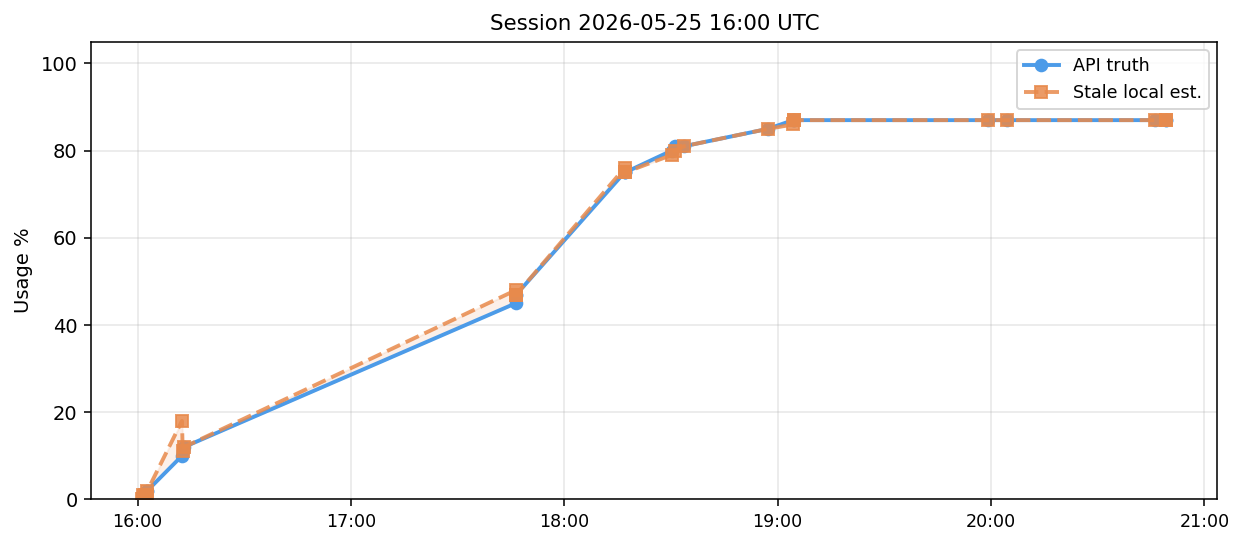
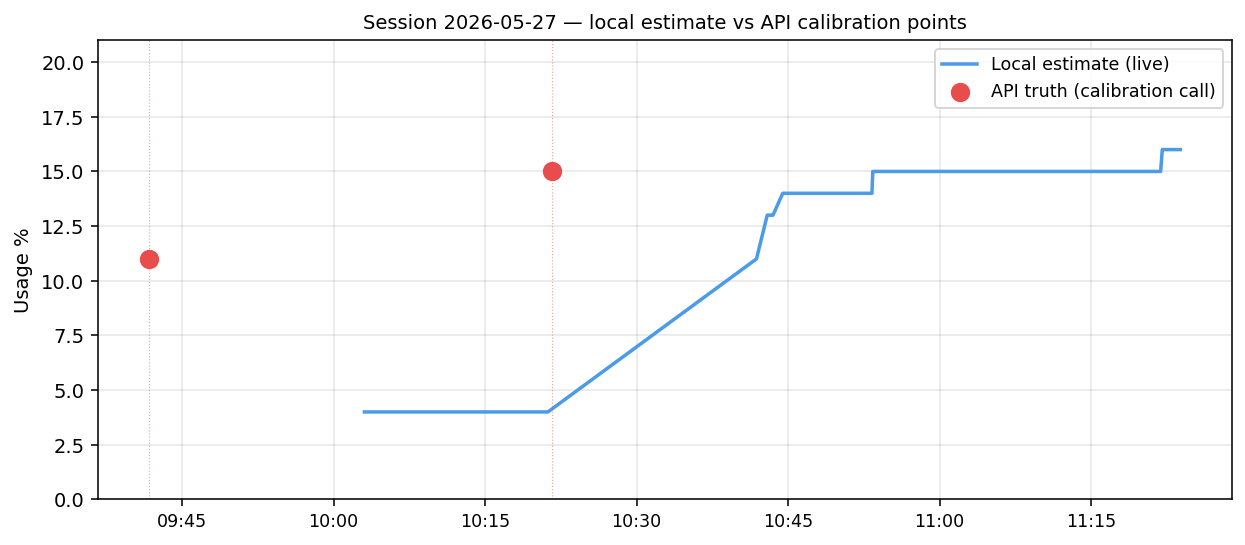
Update accuracy chart + remove CALIBRATION-PLAN.md reference
Chart now shows today's live session: continuous local estimate line
with sparse API-truth dots, clearly illustrating the hybrid approach.
Script fixed to use only the current widget-startup log block.

diff --git a/save_accuracy_chart.py b/save_accuracy_chart.py
@@ -1,67 +1,94 @@
-"""Save a standalone accuracy chart for the README (best single session)."""
-import json, os
-from datetime import datetime
+"""Generate accuracy chart for README: continuous local estimate line + API-truth dots."""
+import json, os, re
+from datetime import datetime, date, timedelta, timezone
 from pathlib import Path
 from collections import defaultdict
 import matplotlib.pyplot as plt
 import matplotlib.dates as mdates
 
-JSONL = Path(os.environ["LOCALAPPDATA"]) / "ClaudeUsage" / "usage_data" / "calibration.jsonl"
+DATA = Path(os.environ["LOCALAPPDATA"]) / "ClaudeUsage" / "usage_data"
+JSONL = DATA / "calibration.jsonl"
+LOG   = DATA / "widget_run.log"
 
-def _session_key(r):
-    dt = datetime.fromisoformat(r["session_start"]).replace(second=0, microsecond=0)
-    return dt.isoformat()
+SESSION_DATE = date(2026, 5, 27)
+SESSION_START_UTC = datetime(2026, 5, 27, 8, 50, tzinfo=timezone.utc)
 
-records = []
-for line in JSONL.read_text(encoding="utf-8").splitlines():
-    line = line.strip()
-    if not line: continue
-    r = json.loads(line)
-    r["_ts"] = datetime.fromisoformat(r["scraped_at"])
-    records.append(r)
-records.sort(key=lambda r: r["_ts"])
 
-sessions = defaultdict(list)
-for r in records:
-    sessions[_session_key(r)].append(r)
+def load_api_points():
+    """Calibration records for today's session that have a resolved budget."""
+    points = []
+    for line in JSONL.read_text(encoding="utf-8").splitlines():
+        line = line.strip()
+        if not line:
+            continue
+        r = json.loads(line)
+        if not r["session_start"].startswith("2026-05-27"):
+            continue
+        if r.get("implied_session_budget") and r.get("session_pct") is not None:
+            points.append({
+                "ts":  datetime.fromisoformat(r["scraped_at"]),
+                "pct": r["session_pct"],
+            })
+    # Deduplicate by minute (multiple rapid calls at same % are noise)
+    seen, deduped = set(), []
+    for p in points:
+        key = p["ts"].strftime("%H:%M")
+        if key not in seen:
+            seen.add(key)
+            deduped.append(p)
+    return deduped
 
-# Pick the May 25 16:00 session (cleanest data); fall back to most data points
-target = "2026-05-25T16:00"
-best_key = next((k for k in sessions if k.startswith(target)), None)
-if best_key is None:
-    best_key, _ = max(
-        ((k, v) for k, v in sessions.items()
-         if len(v) >= 5 and any(r.get("implied_session_budget") for r in v)),
-        key=lambda kv: len(kv[1])
-    )
-best_recs = sessions[best_key]
 
-# Build (timestamp, api_pct, stale_local_pct) triples
-timestamps, api_vals, stale_vals = [], [], []
-prev = None
-for r in best_recs:
-    api_pct = r.get("session_pct")
-    io_total = r.get("transcript_io_total", 0)
-    if api_pct is None:
-        prev = r; continue
-    timestamps.append(r["_ts"])
-    api_vals.append(api_pct)
-    if prev and prev.get("implied_session_budget"):
-        stale_vals.append(min(100, round(100 * io_total / prev["implied_session_budget"])))
-    else:
-        stale_vals.append(api_pct)
-    prev = r
+def load_local_estimates():
+    """Parse [HH:MM:SS] lines from the last widget-startup block in the log.
 
-session_dt = datetime.fromisoformat(best_key)
-title = f"Session {session_dt.strftime('%Y-%m-%d %H:%M UTC')}"
+    The log is appended across restarts; splitting on 'Widget HTTP' gives us
+    one block per run. The last block is the current session."""
+    all_lines = LOG.read_text(encoding="utf-8", errors="ignore").splitlines()
+    # Find the last "Widget HTTP" restart marker
+    last_start = 0
+    for i, line in enumerate(all_lines):
+        if line.startswith("Widget HTTP"):
+            last_start = i
+    block = all_lines[last_start:]
+
+    pattern = re.compile(r"^\[(\d{2}:\d{2}:\d{2})\].*pct=(\d+(?:\.\d+)?)")
+    points = []
+    for line in block:
+        m = pattern.match(line)
+        if not m:
+            continue
+        h, mi, s = map(int, m.group(1).split(":"))
+        ts = datetime(SESSION_DATE.year, SESSION_DATE.month, SESSION_DATE.day,
+                      h, mi, s, tzinfo=timezone.utc)
+        points.append({"ts": ts, "pct": float(m.group(2))})
+    return points
+
+
+api_pts   = load_api_points()
+local_pts = load_local_estimates()
+
+if not local_pts:
+    print("No local estimate data found for today's session.")
+    raise SystemExit(1)
+
+local_ts  = [p["ts"] for p in local_pts]
+local_pct = [p["pct"] for p in local_pts]
+api_ts    = [p["ts"] for p in api_pts]
+api_pct   = [p["pct"] for p in api_pts]
 
 fig, ax = plt.subplots(figsize=(9, 4))
-ax.plot(timestamps, api_vals,   "o-",  color="#4C9BE8", label="API truth",       lw=2)
-ax.plot(timestamps, stale_vals, "s--", color="#E88A4C", label="Stale local est.", lw=2, alpha=0.85)
-ax.fill_between(timestamps, api_vals, stale_vals, alpha=0.12, color="#E88A4C")
-ax.set_title(title, fontsize=11)
+
+ax.plot(local_ts, local_pct, "-", color="#4C9BE8", lw=1.8, label="Local estimate (live)")
+ax.scatter(api_ts, api_pct, color="#E84C4C", s=80, zorder=5, label="API truth (calibration call)")
+
+# Vertical dotted lines at each API call to make the cadence obvious
+for ts in api_ts:
+    ax.axvline(ts, color="#E84C4C", lw=0.6, ls=":", alpha=0.5)
+
+ax.set_title("Session 2026-05-27 — local estimate vs API calibration points", fontsize=10)
 ax.set_ylabel("Usage %")
-ax.set_ylim(0, 105)
+ax.set_ylim(0, max(max(local_pct), max(api_pct) if api_pct else 0) + 5)
 ax.xaxis.set_major_formatter(mdates.DateFormatter("%H:%M"))
 ax.tick_params(axis="x", labelsize=9)
 ax.legend(fontsize=9)

diff --git a/README.md b/README.md
@@ -144,7 +144,7 @@ Planned, not yet shipped:
 - **macOS & Linux packaging** — the core already runs cross-platform (see above); only the tray packaging is Windows-only today.
 - **Configurable widgets** — custom icons, per-widget colours, per-threshold colour changes, and a settings window.
 - **Extra usage** — surface pay-as-you-go / overage usage beyond your plan's included limits, alongside the session and weekly readings.
-- **Improved early-session calibration** — replace the back-derived budget with a recency-weighted prior plus delta-calibration that detects off-laptop usage, so the estimate is accurate from the first minutes of a session and can't overshoot 100%. Design in [`CALIBRATION-PLAN.md`](CALIBRATION-PLAN.md).
+- **Improved early-session calibration** — replace the back-derived budget with a recency-weighted prior plus delta-calibration that detects off-laptop usage, so the estimate is accurate from the first minutes of a session and can't overshoot 100%.
 - **Per-model weighting** — weight tokens by model when computing usage (an Opus token costs more against the limit than a Sonnet/Haiku one); today the estimate counts raw input + output tokens unweighted.
 - **Usage history and drift tracking** — in-app visualisation of how your usage estimate tracks against the API over time, surfacing the data already logged in `calibration.jsonl`.
 